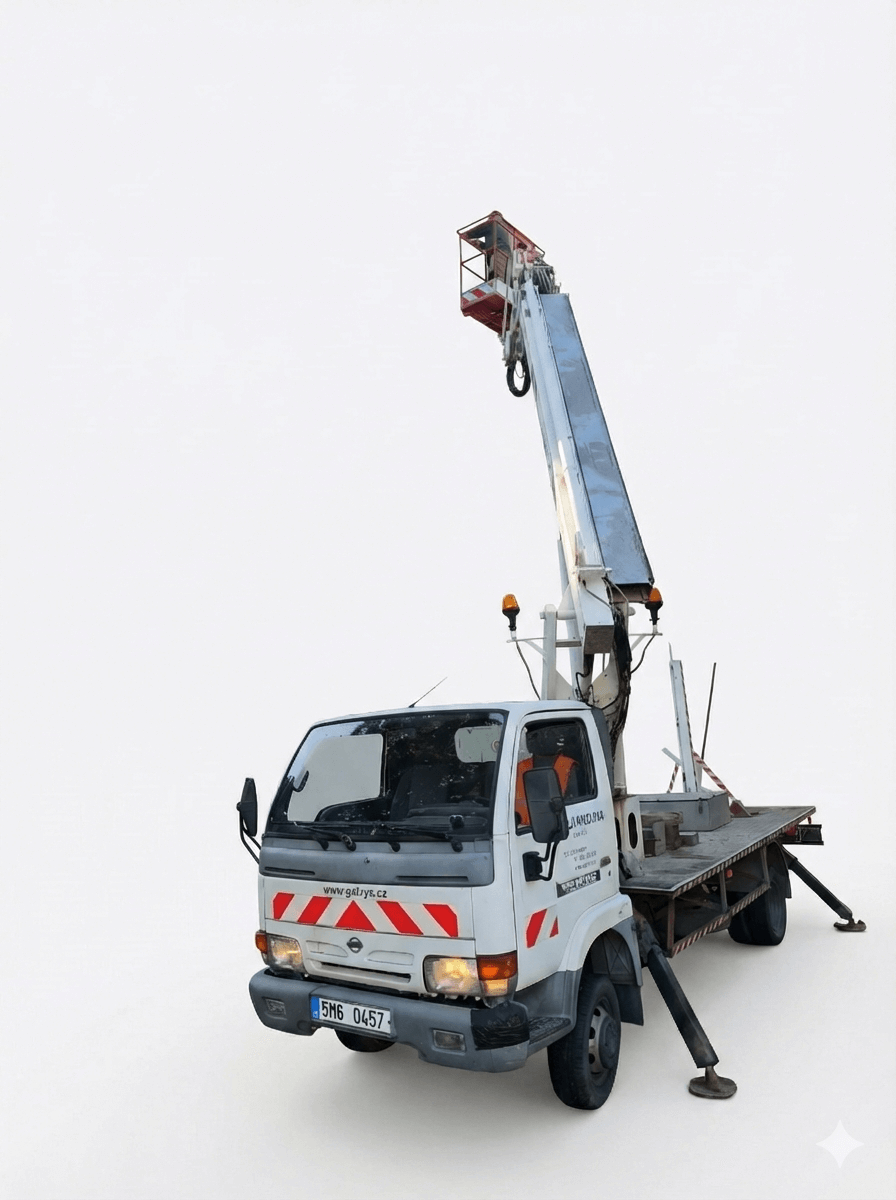
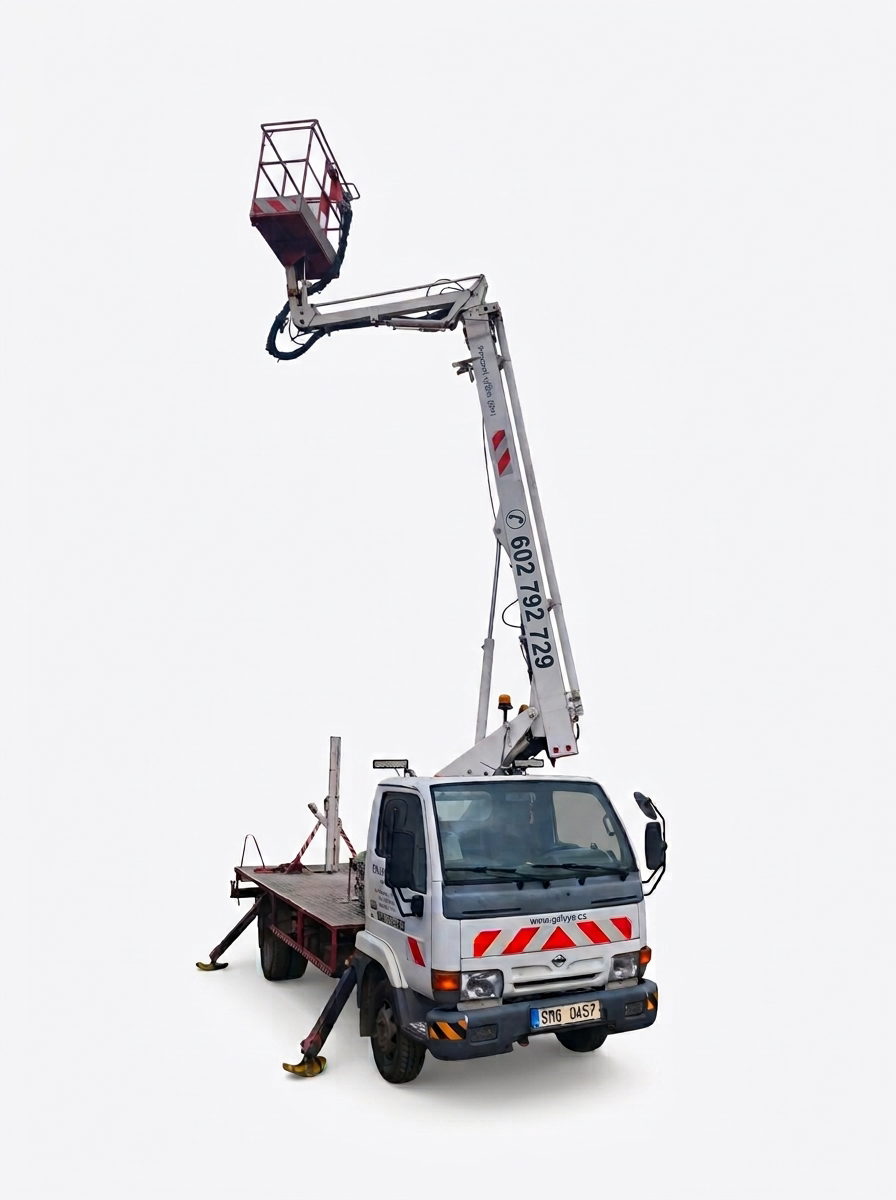
Replace vehicle1 title image with new Gemini image

Changed region(s): [[0.2188, 0.0925, 0.9688, 1.0]]

diff --git a/index.html b/index.html
@@ -192,7 +192,7 @@
             <img
               src="./vehicle1.webp"
               width="896"
-              height="1190"
+              height="1200"
               loading="lazy"
               class="img-fluid border rounded-3 shadow-lg"
               alt="fotka vysokozdvižné plošiny"
